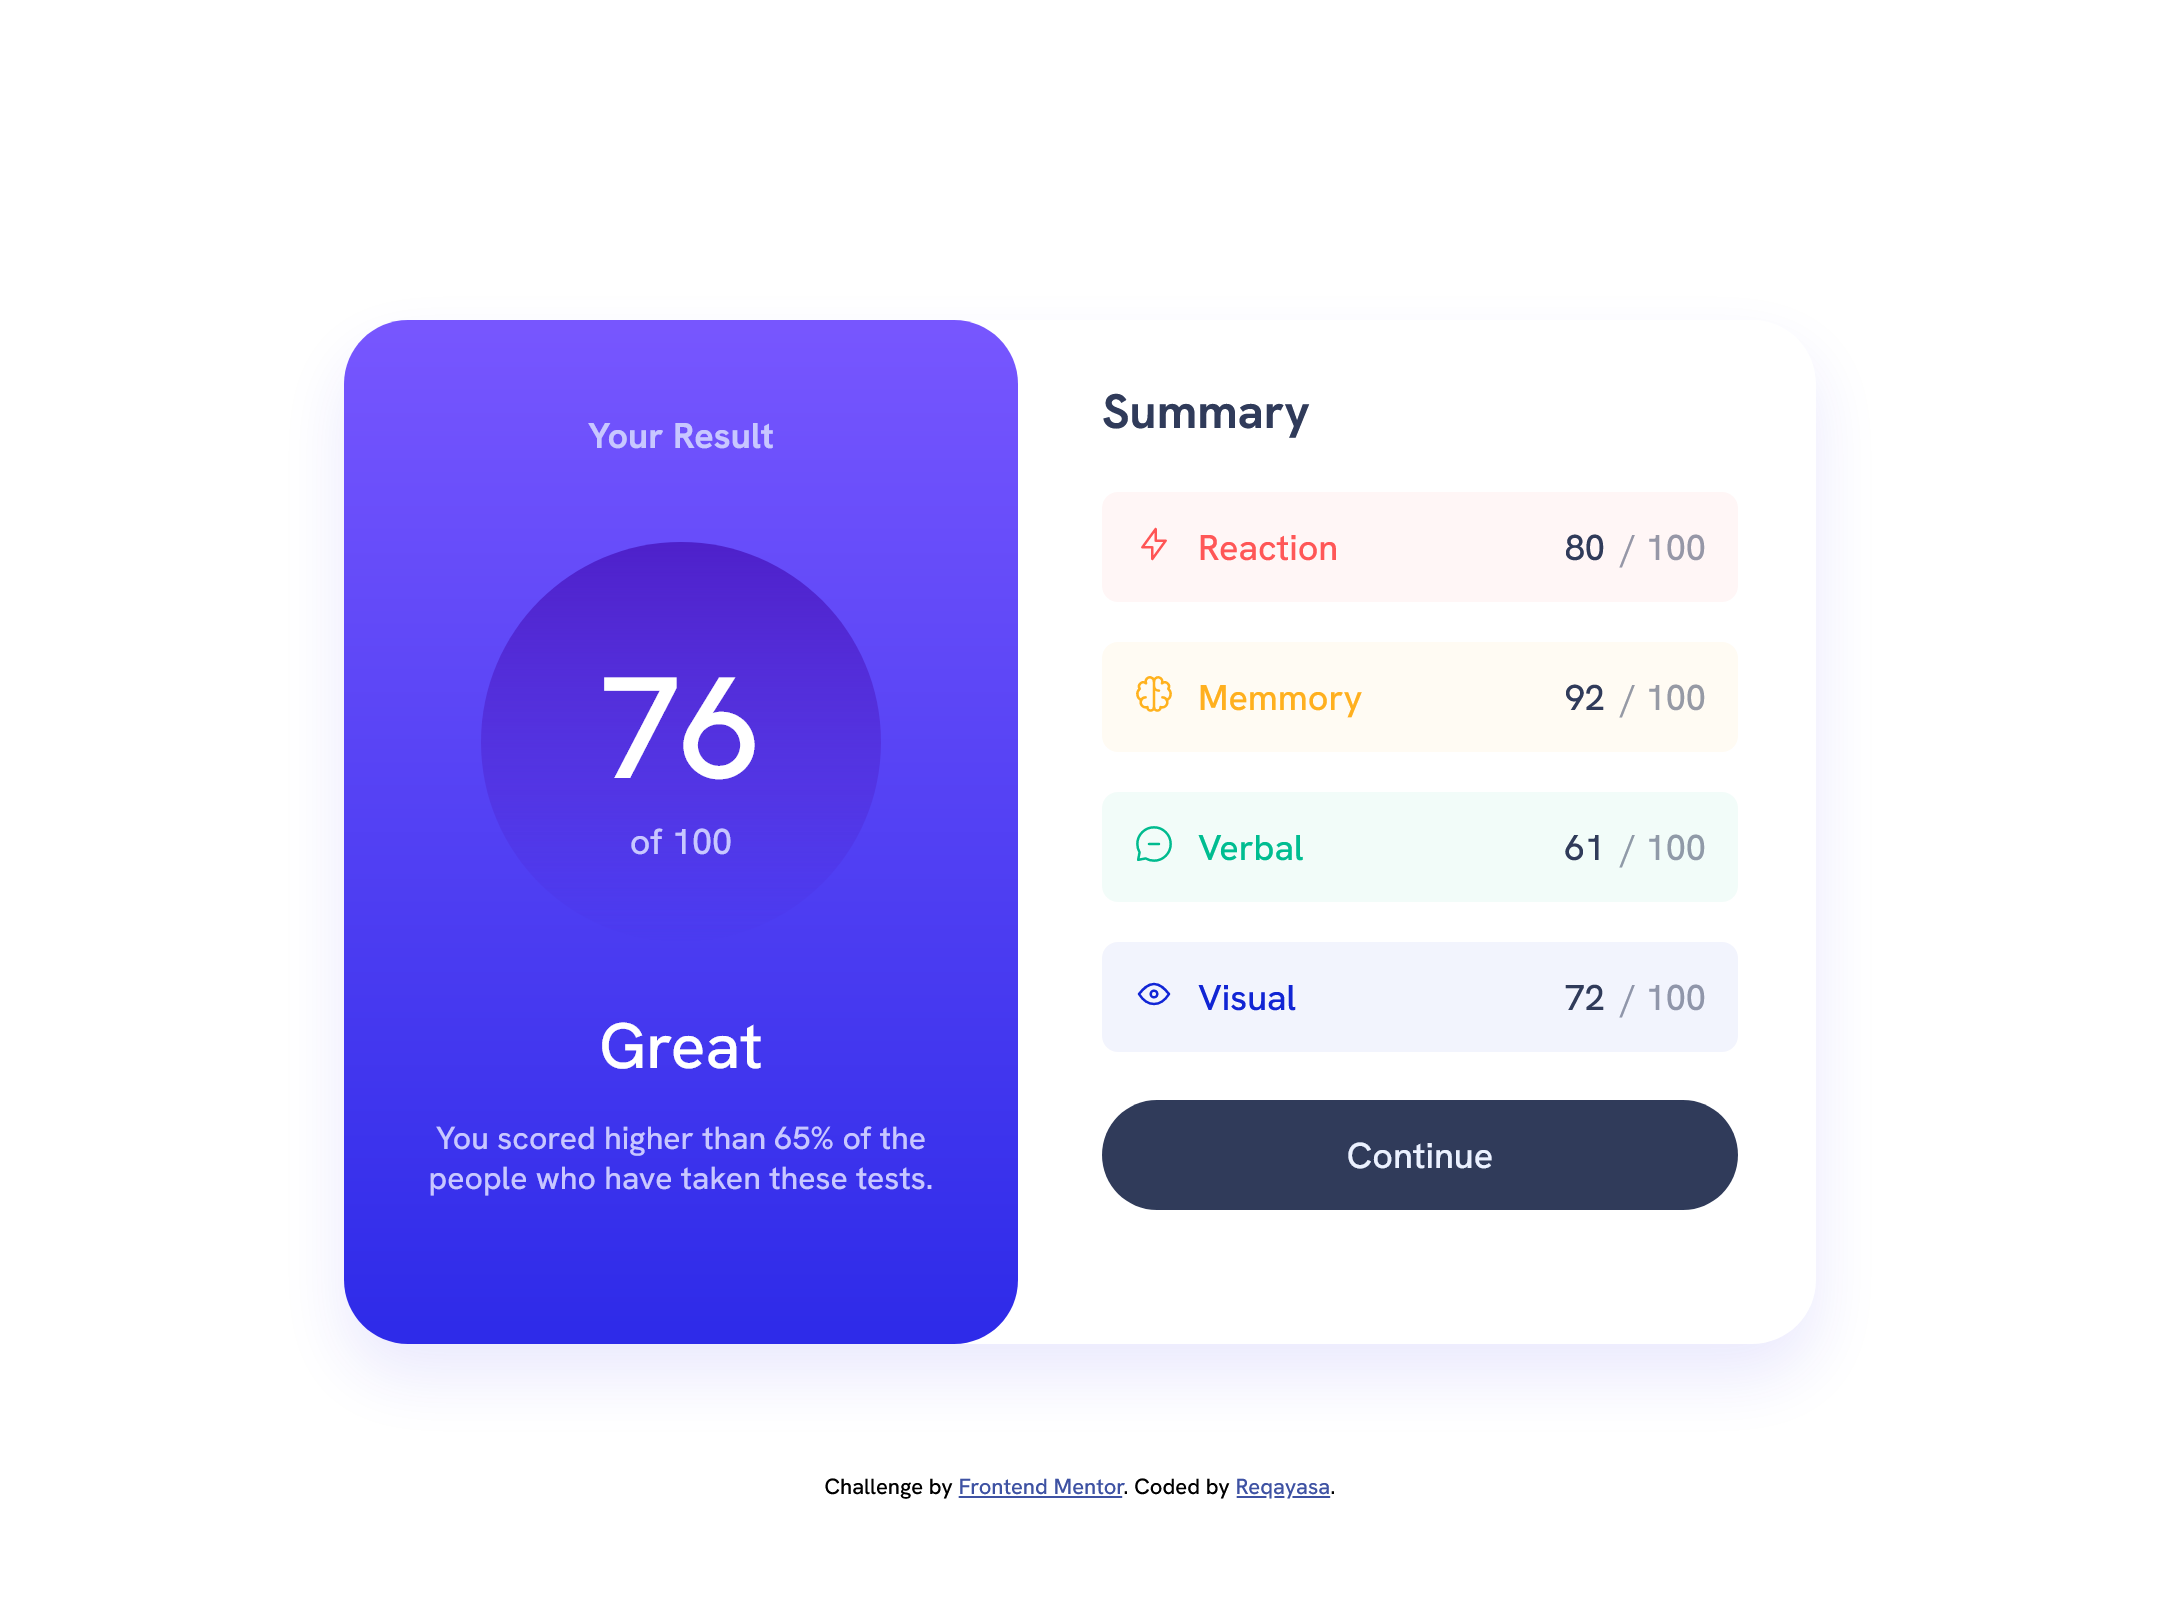
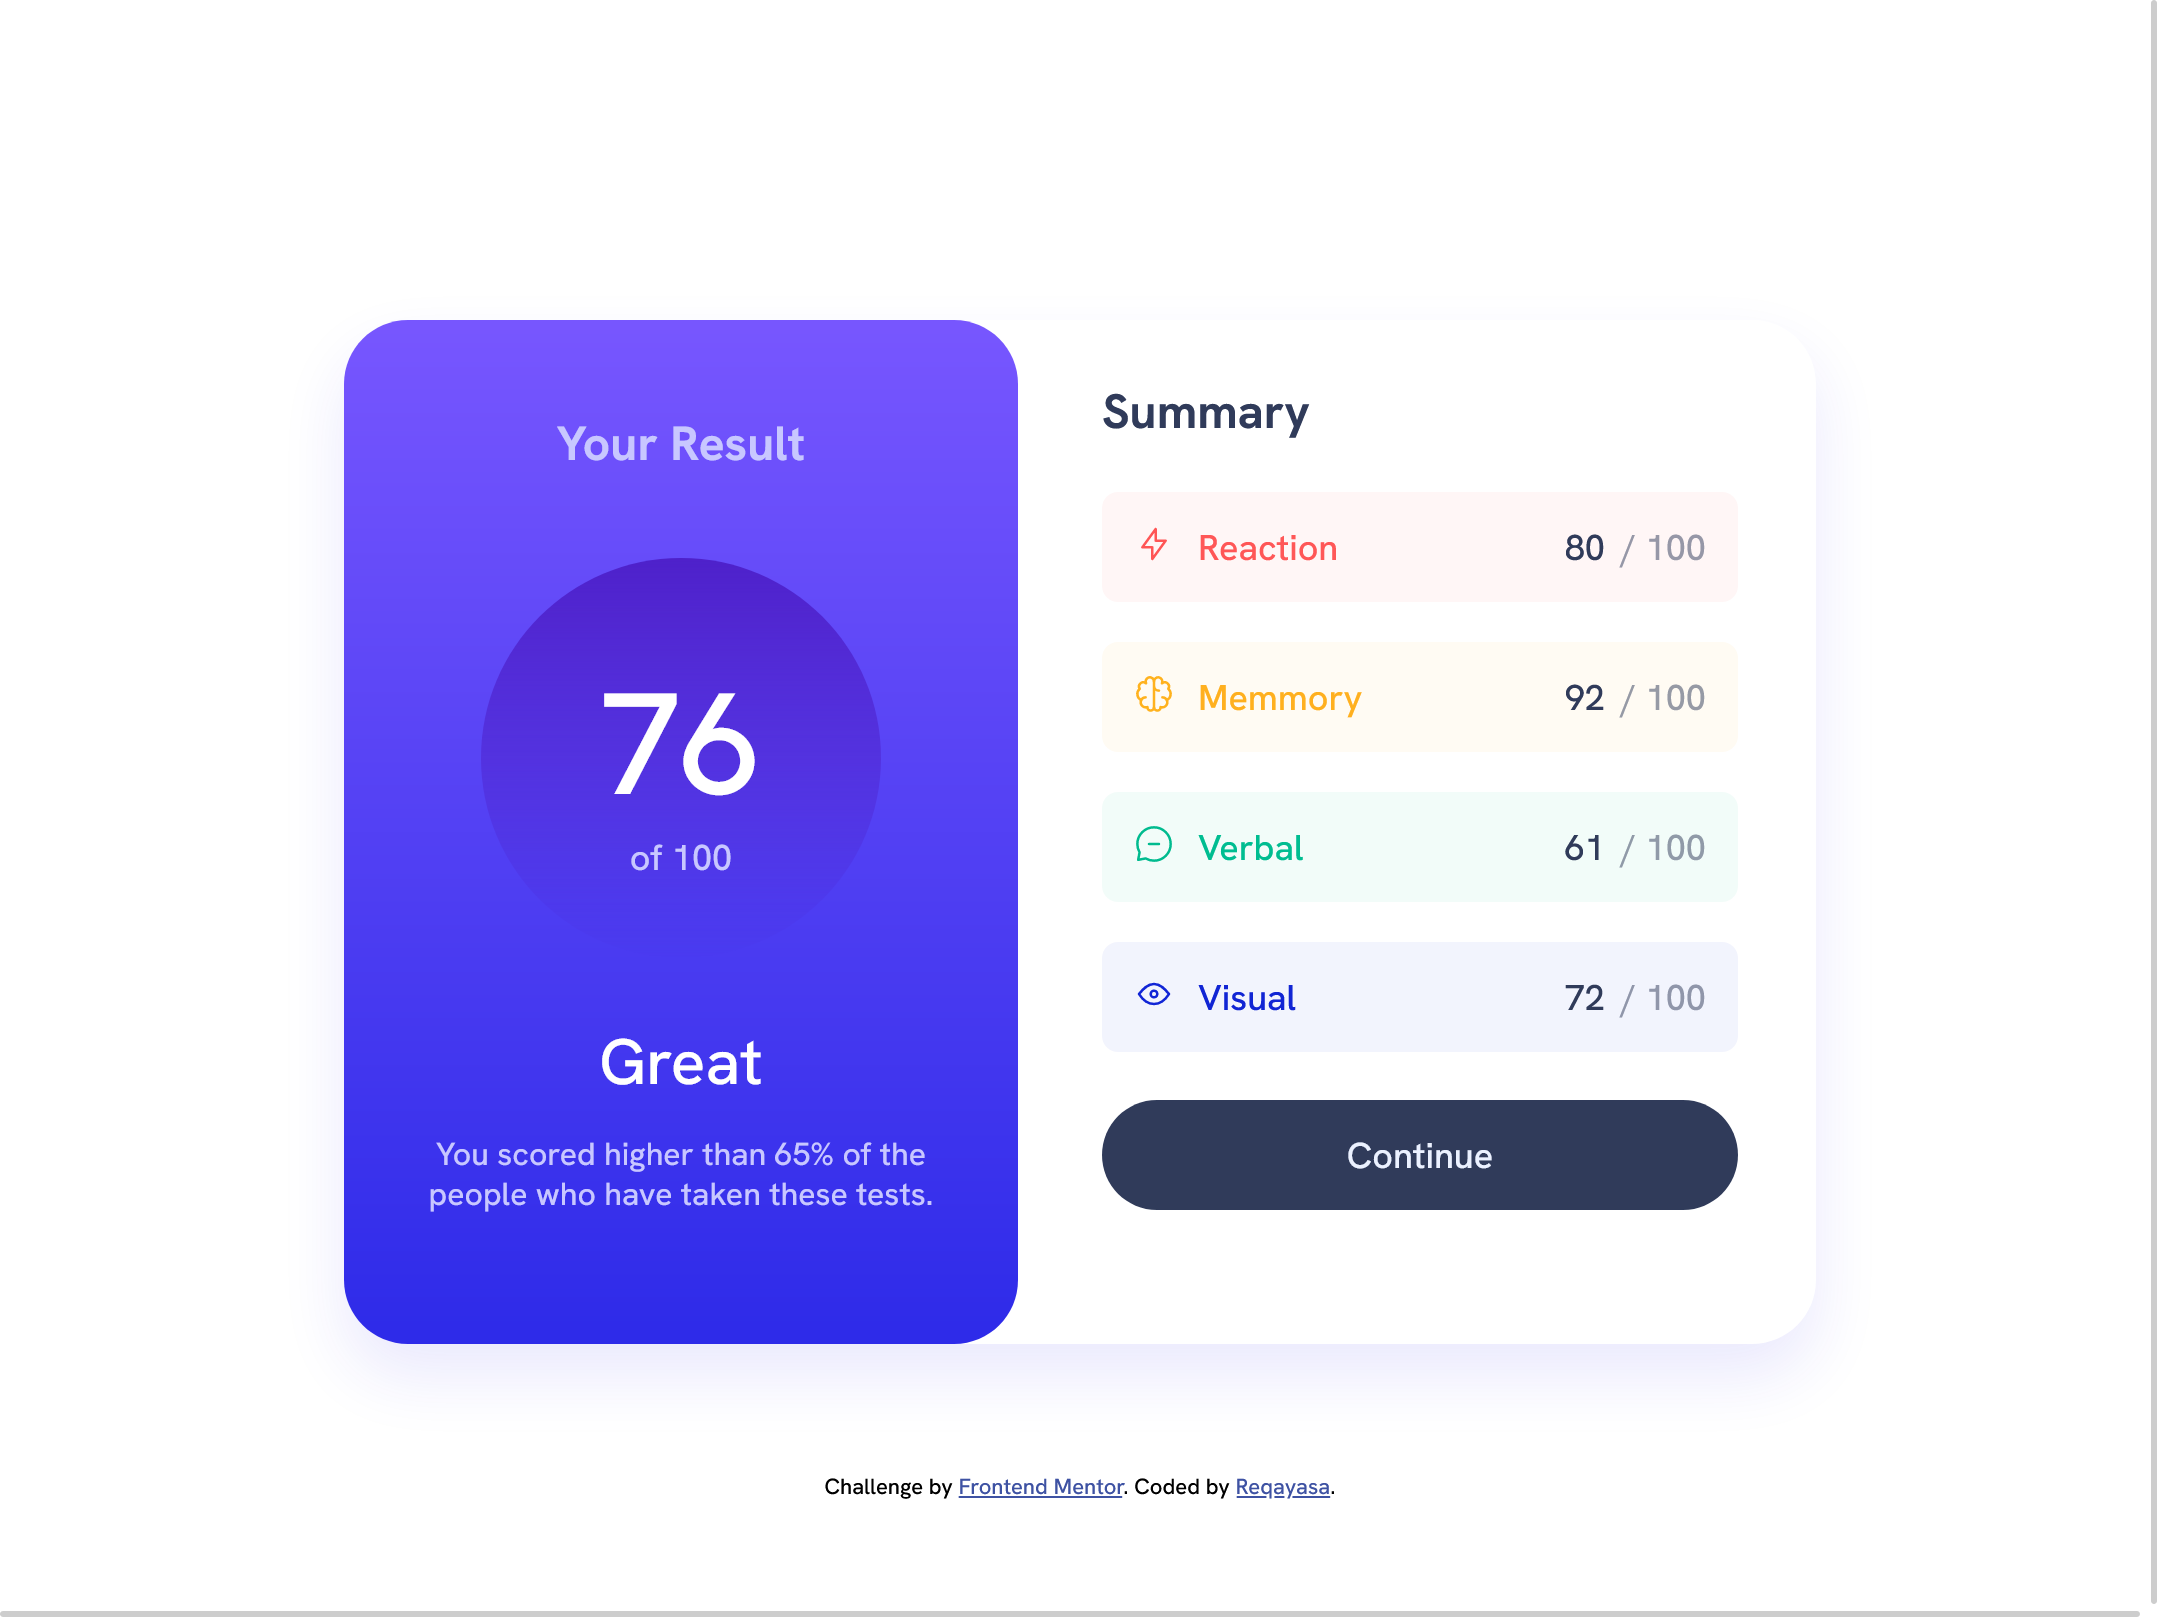
correction with result title

diff --git a/css/style.css b/css/style.css
@@ -119,6 +119,7 @@ main {
 @media (min-width: 60em) {
   .result-header {
     margin-top: 2.875rem;
+    font-size: 1.5rem;
   }
 }
 .result-circle {

diff --git a/scss/components/_result.scss b/scss/components/_result.scss
@@ -23,6 +23,7 @@
 
     @include g.breakpoint(large){
       margin-top: 2.875rem;
+      font-size: 1.5rem;
     }
   }
 
